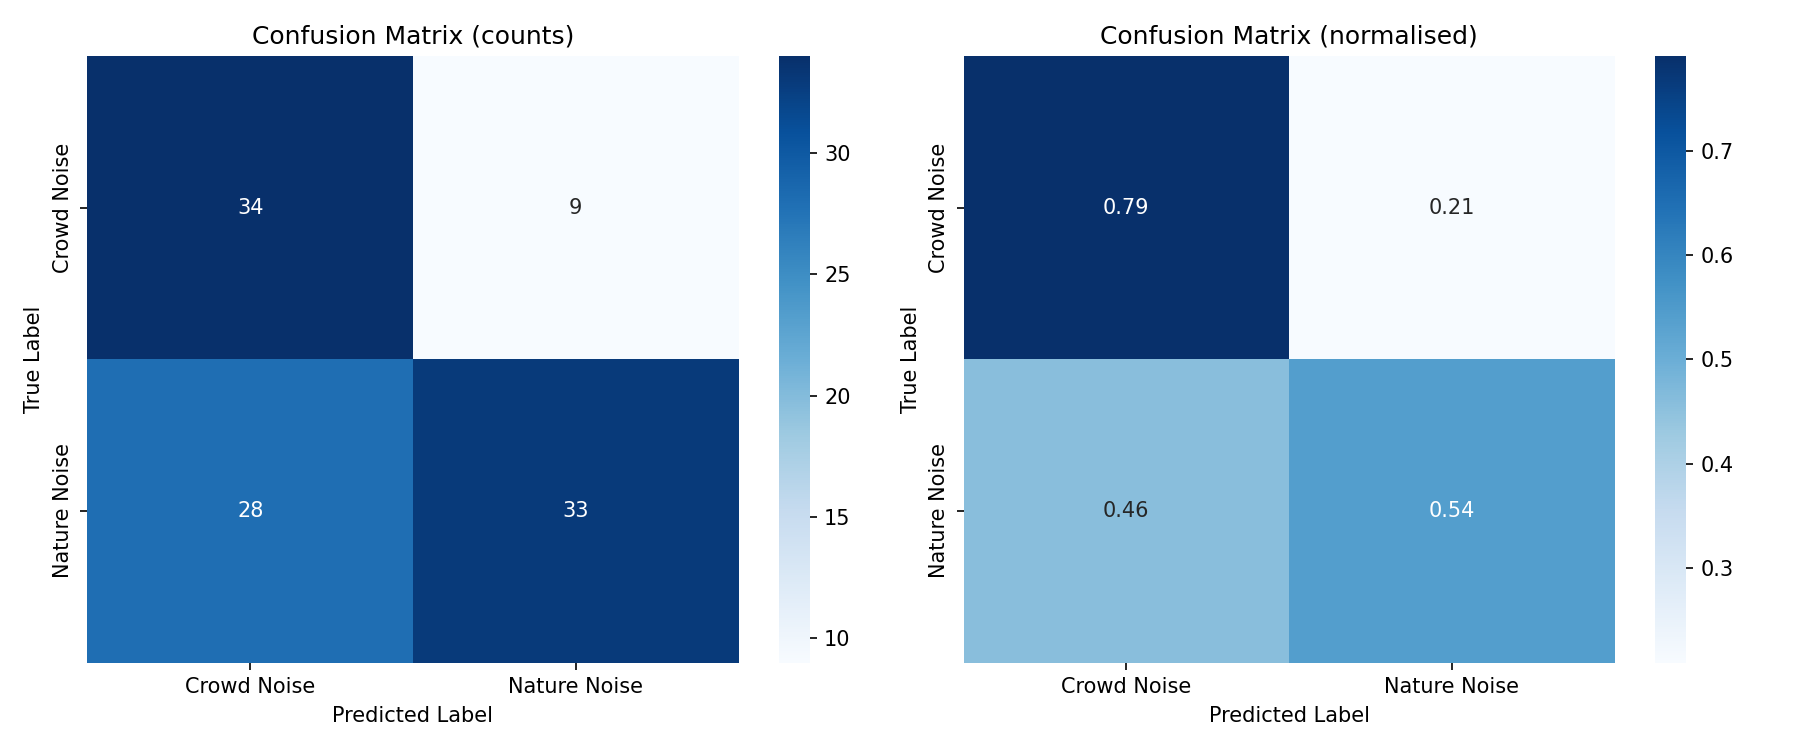
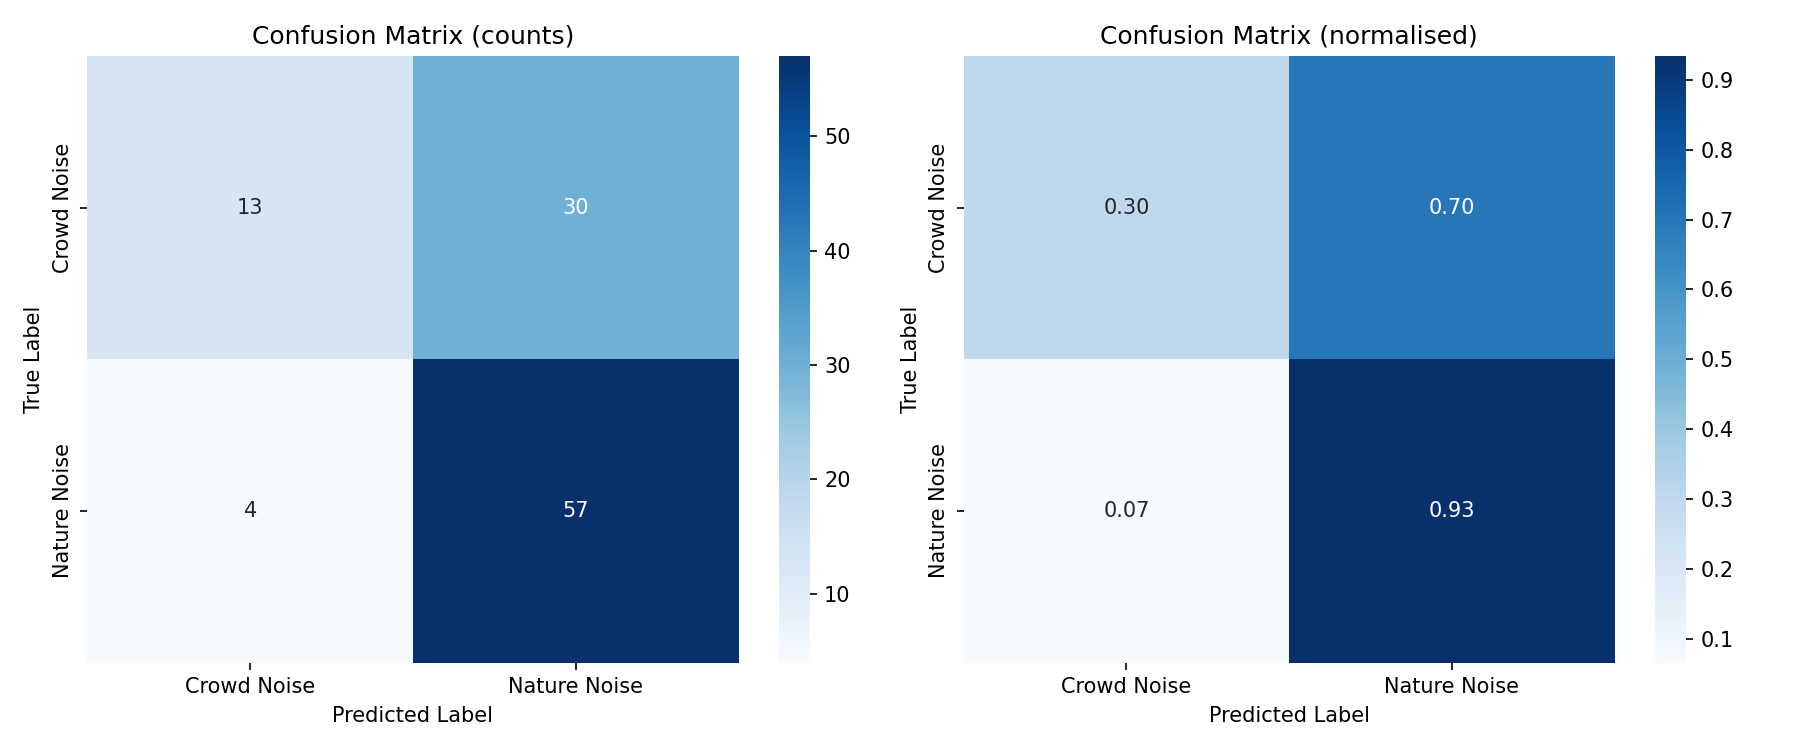
Add TensorFlow event log file for noise model validation metrics

diff --git a/smart_tourism_app_backend/noise_model/inference.py b/smart_tourism_app_backend/noise_model/inference.py
@@ -29,9 +29,7 @@ CONF_THRESHOLD = 0.70   # minimum confidence to trust the prediction
 
 def load_model(weights_path=WEIGHTS_PATH, input_shape=(40, 216, 3)):
     """Load model architecture + weights."""
-    from model import build_noise_classifier
-    model = build_noise_classifier(input_shape)
-    model.load_weights(weights_path)
+    model = tf.keras.models.load_model(weights_path)
     return model
 
 